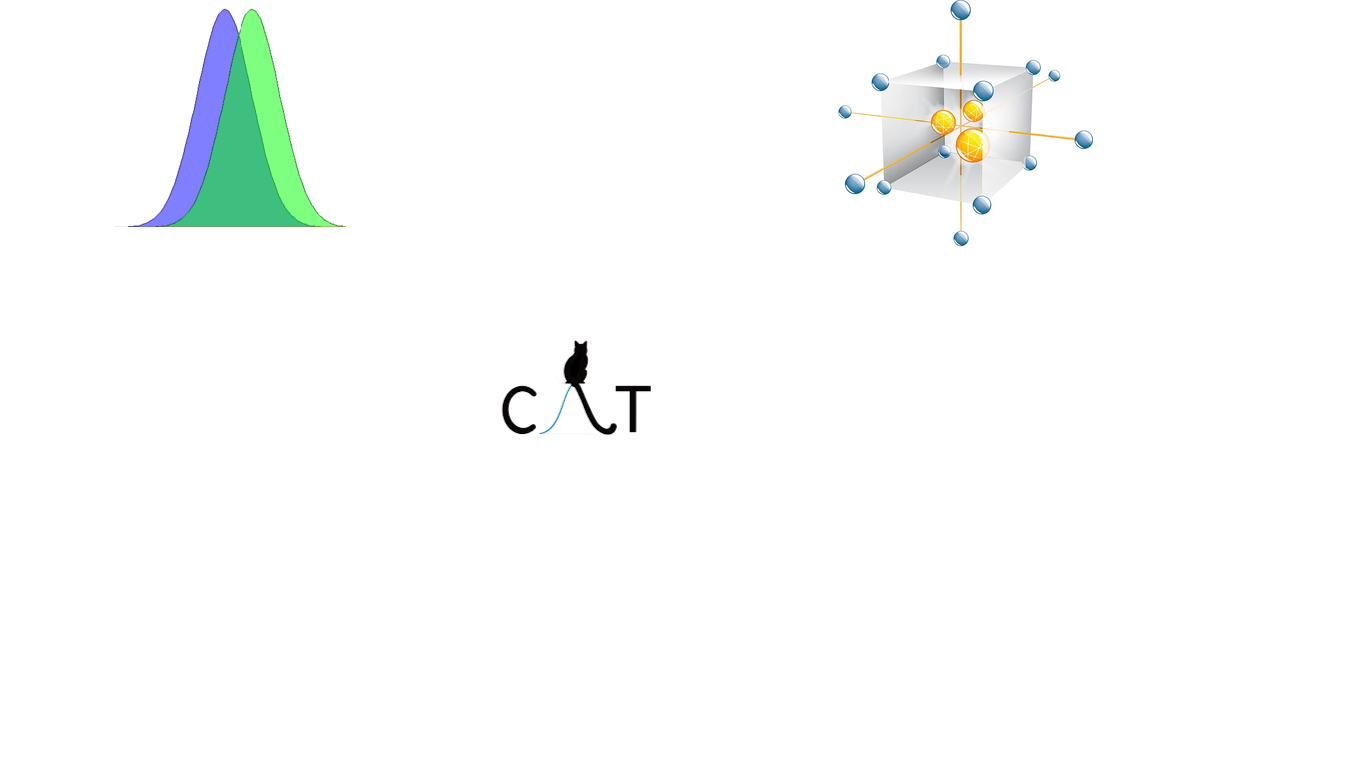
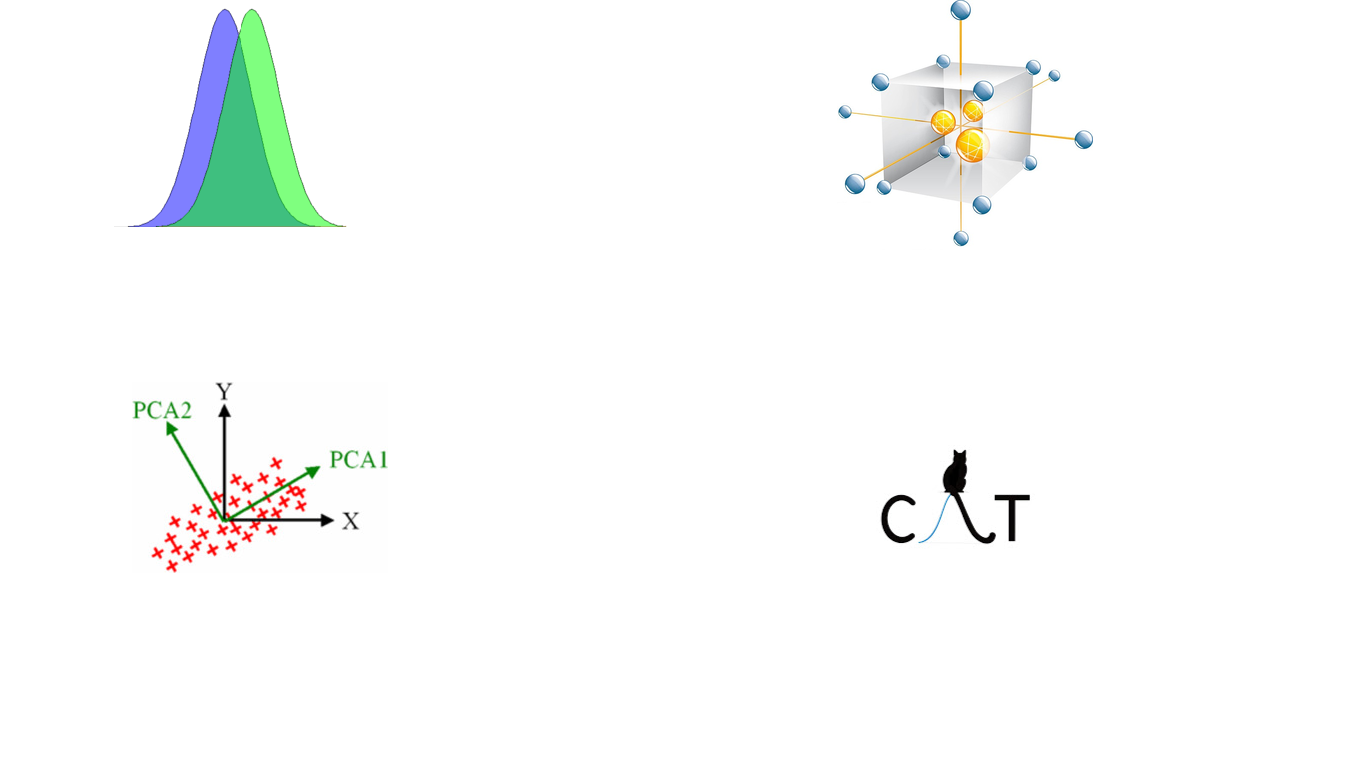
2021/12/16 PCA

diff --git a/pca_ita.html b/pca_ita.html
@@ -11,7 +11,7 @@
 
 
 
-<title>Download the software named “DoE”</title>
+<title>Scaricare il software “PCA”</title>
 
 <script src="site_libs/header-attrs-2.11/header-attrs.js"></script>
 <script src="site_libs/jquery-3.5.1/jquery-3.5.1.min.js"></script>
@@ -348,43 +348,45 @@ div.tocify {
 
 
 
-<h1 class="title toc-ignore">Download the software named “DoE”</h1>
+<h1 class="title toc-ignore">Scaricare il software “PCA”</h1>
 
 </div>
 
 
-<p>The executable application “DoE.exe” will install the open-source software R, together with all the packages necessary for running the software named “DoE” that we will use during the exercises.</p>
-<div id="preliminary-note" class="section level2">
-<h2>1. Preliminary note</h2>
-<p>The executable version of the DoE.exe program is in beta version. We therefore ask you to try it and report any bugs or errors (for example, the lack of a library, etc …) to the following addresses: <a href="mailto:giorgio.marrubini@unipv.it">Giorgio Marrubini</a>, <a href="mailto:camillonelzin@gmail.com">Camillo Melzi</a>.</p>
-<p>Regrettably, the executable currently only works for Windows.</p>
+<p>L’applicazione eseguibile “PCA.exe” installerà il software open-source R, insieme a tutti i pacchetti necessari per l’esecuzione del software denominato “PCA” che utilizzeremo durante gli esercizi.</p>
+<div id="nota-preliminare" class="section level2">
+<h2>1. Nota preliminare</h2>
+<p>La versione eseguibile del programma PCA.exe è in versione beta. Vi preghiamo quindi di provarlo e di segnalare eventuali bug o errori (ad esempio, mancanza di libreria, ecc…) ai seguenti indirizzi: <a href="mailto:giorgio.marrubini@unipv.it">Giorgio Marrubini</a>, <a href="mailto:camillonelzin@gmail.com">Camillo Melzi</a>.</p>
+<p>Purtroppo, l’eseguibile attualmente funziona solo per Windows.</p>
 </div>
-<div id="download-the-executable" class="section level2">
-<h2>2. Download the executable</h2>
-<p>Download the file <a href="https://drive.google.com/file/d/1jZdLZMs4vtvn8Btkr2vMmCEums4O95GC/view?usp=sharing">setup_DoE.exe</a> then run the executable by mouse double-click on the icon:</p>
-<p><img src="Figure/doe_exe.png" width="85" /></p>
-<p>If necessary, allow installing apps by unknown author/source, then accept the “License Agreement” and click on the <em>Next</em> button. The software that we are providing for free is made in-house. No antivirus collected information on it as of today. Therefore antivirus software will warn you about the dangers of installing software from unknown sources.</p>
-<p><img src="Figure/fig1.png" width="420" /></p>
-<p>Click the Next button again in the window</p>
-<p><img src="Figure/fig2.png" width="420" /></p>
-<p>Select the directory to install the program (I recommend keeping C: \ Warning !! do not use the Program Files or Program Files (x86) directories).</p>
-<p>Click on the Next button in the next window</p>
-<p><img src="Figure/fig3.png" width="420" /></p>
-<p>Choose whether to create a shortcut to the application on the desktop (recommended)</p>
-<p><img src="Figure/fig4.png" width="420" /></p>
-<p>Then press the Install button and then Next in the subsequent windows</p>
-<p><img src="Figure/fig5.png" width="420" /></p>
-<p><img src="Figure/fig6.png" width="420" /></p>
-<p>Finally, click on the Finish button (I recommend leaving the flag on Launch DoE )</p>
-<p><img src="Figure/fig7.png" width="420" /></p>
-<p>Once the necessary libraries have been loaded (the first time it may take some time), the application opens.</p>
-<p>On the desktop (if you have chosen to create a shortcut to the application), there should be the shortcut icon</p>
-<p><img src="Figure/fig8.png" width="100" /></p>
+<div id="scaricare-leseguibile" class="section level2">
+<h2>2. Scaricare l’eseguibile</h2>
+<p>Scaricare il file <a href="https://drive.google.com/open?id=1IEVIbt_LWVE6Ry-XRDBGt_r6FbVQbAZJ&amp;authuser=camillomelzi%40gmail.com&amp;usp=drive_fs">setup_PCA.exe</a> ed avviare l’eseguibile con doppio click sull’icona</p>
+<p><img src="Figure/pca_exe.png" width="85" /></p>
+<p>Se necessario, consentire l’installazione di app di autore / fonte sconosciuti, quindi accettare il “Contratto di licenza” e fare clic sul pulsante <em>Avanti</em> . Il software che forniamo gratuitamente è realizzato internamente. Nessun antivirus ha raccolto informazioni su di esso fino ad oggi. Pertanto il software antivirus ti avviserà dei pericoli derivanti dall’installazione di software da fonti sconosciute.</p>
+<p><img src="Figure/pca_fig1.png" width="420" /></p>
+<p>Fare di nuovo clic sul pulsante Avanti nella finestra</p>
+<p><img src="Figure/pca_fig2.png" width="420" /></p>
+<p>Seleziona la directory in cui installare il programma (consiglio di mantenere C: \ Attenzione!! non utilizzare le directory Program Files o Program Files (x86)).</p>
+<p>Fare clic sul pulsante Avanti nella finestra successiva</p>
+<p><img src="Figure/pca_fig3.png" width="420" /></p>
+<p>Scegli se creare un collegamento all’applicazione sul desktop (consigliato)</p>
+<p><img src="Figure/pca_fig4.png" width="420" /></p>
+<p>Quindi premere il pulsante Installa e poi Avanti nelle finestre successive</p>
+<p><img src="Figure/pca_fig5.png" width="420" /></p>
+<p><img src="Figure/pca_fig6.png" width="420" /></p>
+<p>Infine, fai clic sul pulsante Fine (consiglio di lasciare flag su Launch PCA)</p>
+<p><br />
+</p>
+<p><img src="Figure/pca_fig7.png" width="420" /></p>
+<p>Dopo che le librerie necessarie sono state caricate (la prima volta potrebbe richiedere del tempo), l’applicazione si apre.</p>
+<p>Sul desktop (se hai scelto di creare un collegamento all’applicazione), dovrebbero esserci l’ icone di collegamento</p>
+<p><img src="Figure/pca_fig8.png" width="100" /></p>
 </div>
-<div id="uninstall-application" class="section level2">
-<h2>3. Uninstall application</h2>
-<p>DoE can be uninstalled like any other Windows application. Alternatively, to uninstall in the DoE folder created in C: \ (or in the directory chosen for installation), there is a unis000.exe icon. Double click on the icon and uninstallation starts. Once DoE has been unistalled, a message similar to the one reported below should appear.</p>
-<p><img src="Figure/fig9.png" /></p>
+<div id="disinstallare-lapplicazione" class="section level2">
+<h2>3. Disinstallare l’applicazione</h2>
+<p>PCA può essere disinstallato come qualsiasi altra applicazione Windows. In alternativa, per eseguire la disinstallazione nella cartella PCA creata in C: \ (o nella directory scelta per l’installazione), è presente un’icona unis000.exe. Fare doppio clic sull’icona e verrà avviata la disinstallazione. Una volta che PCA è stato disistallato, dovrebbe apparire un messaggio simile a quello riportato di seguito.</p>
+<p><img src="Figure/pca_fig9.png" /></p>
 </div>
 
 

diff --git a/Mac_doe.html b/Mac_doe.html
@@ -252,6 +252,9 @@ $(document).ready(function () {
   </ul>
 </li>
 <li>
+  <a href="pca_ita.html">PCA</a>
+</li>
+<li>
   <a href="http://gruppochemiometria.it/index.php/software">CAT</a>
 </li>
       </ul>

diff --git a/Mac_modunivar.html b/Mac_modunivar.html
@@ -263,6 +263,9 @@ $(document).ready(function () {
   </ul>
 </li>
 <li>
+  <a href="pca_ita.html">PCA</a>
+</li>
+<li>
   <a href="http://gruppochemiometria.it/index.php/software">CAT</a>
 </li>
       </ul>

diff --git a/index.html b/index.html
@@ -252,6 +252,9 @@ $(document).ready(function () {
   </ul>
 </li>
 <li>
+  <a href="pca_ita.html">PCA</a>
+</li>
+<li>
   <a href="http://gruppochemiometria.it/index.php/software">CAT</a>
 </li>
       </ul>

diff --git a/doe_ita.html b/doe_ita.html
@@ -334,6 +334,9 @@ div.tocify {
   </ul>
 </li>
 <li>
+  <a href="pca_ita.html">PCA</a>
+</li>
+<li>
   <a href="http://gruppochemiometria.it/index.php/software">CAT</a>
 </li>
       </ul>

diff --git a/modunivar_ita.html b/modunivar_ita.html
@@ -334,6 +334,9 @@ div.tocify {
   </ul>
 </li>
 <li>
+  <a href="pca_ita.html">PCA</a>
+</li>
+<li>
   <a href="http://gruppochemiometria.it/index.php/software">CAT</a>
 </li>
       </ul>
